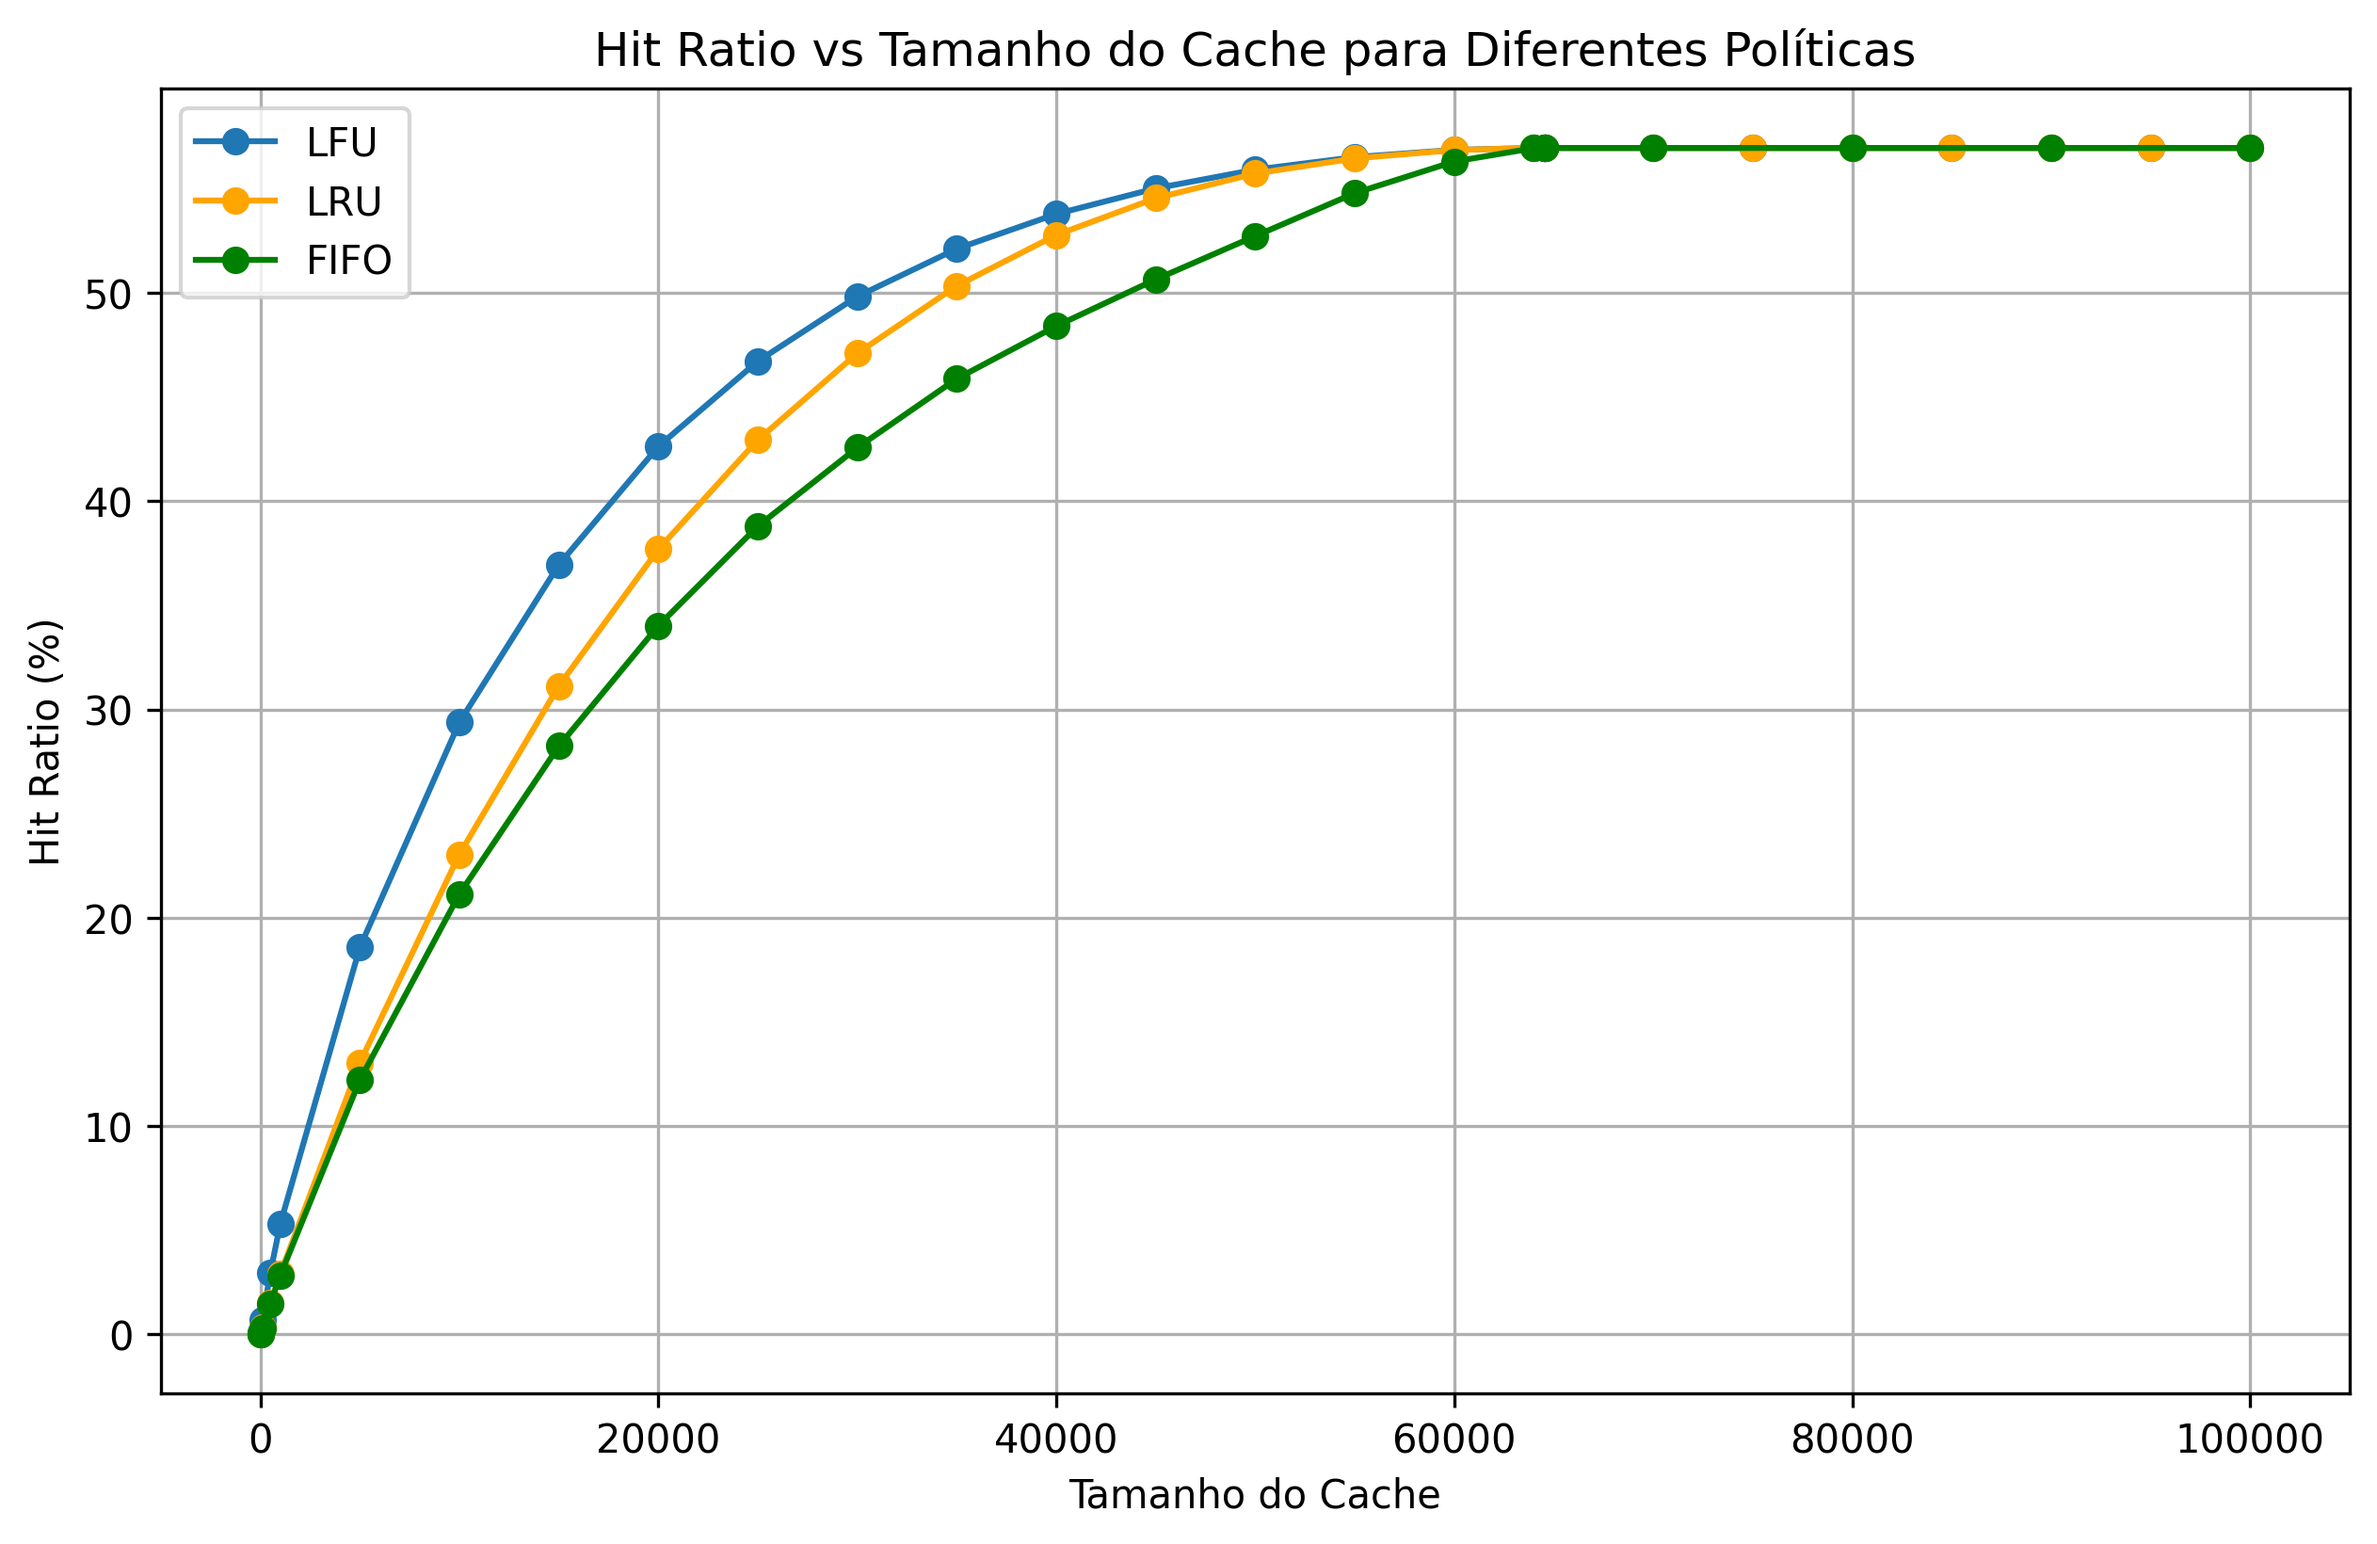
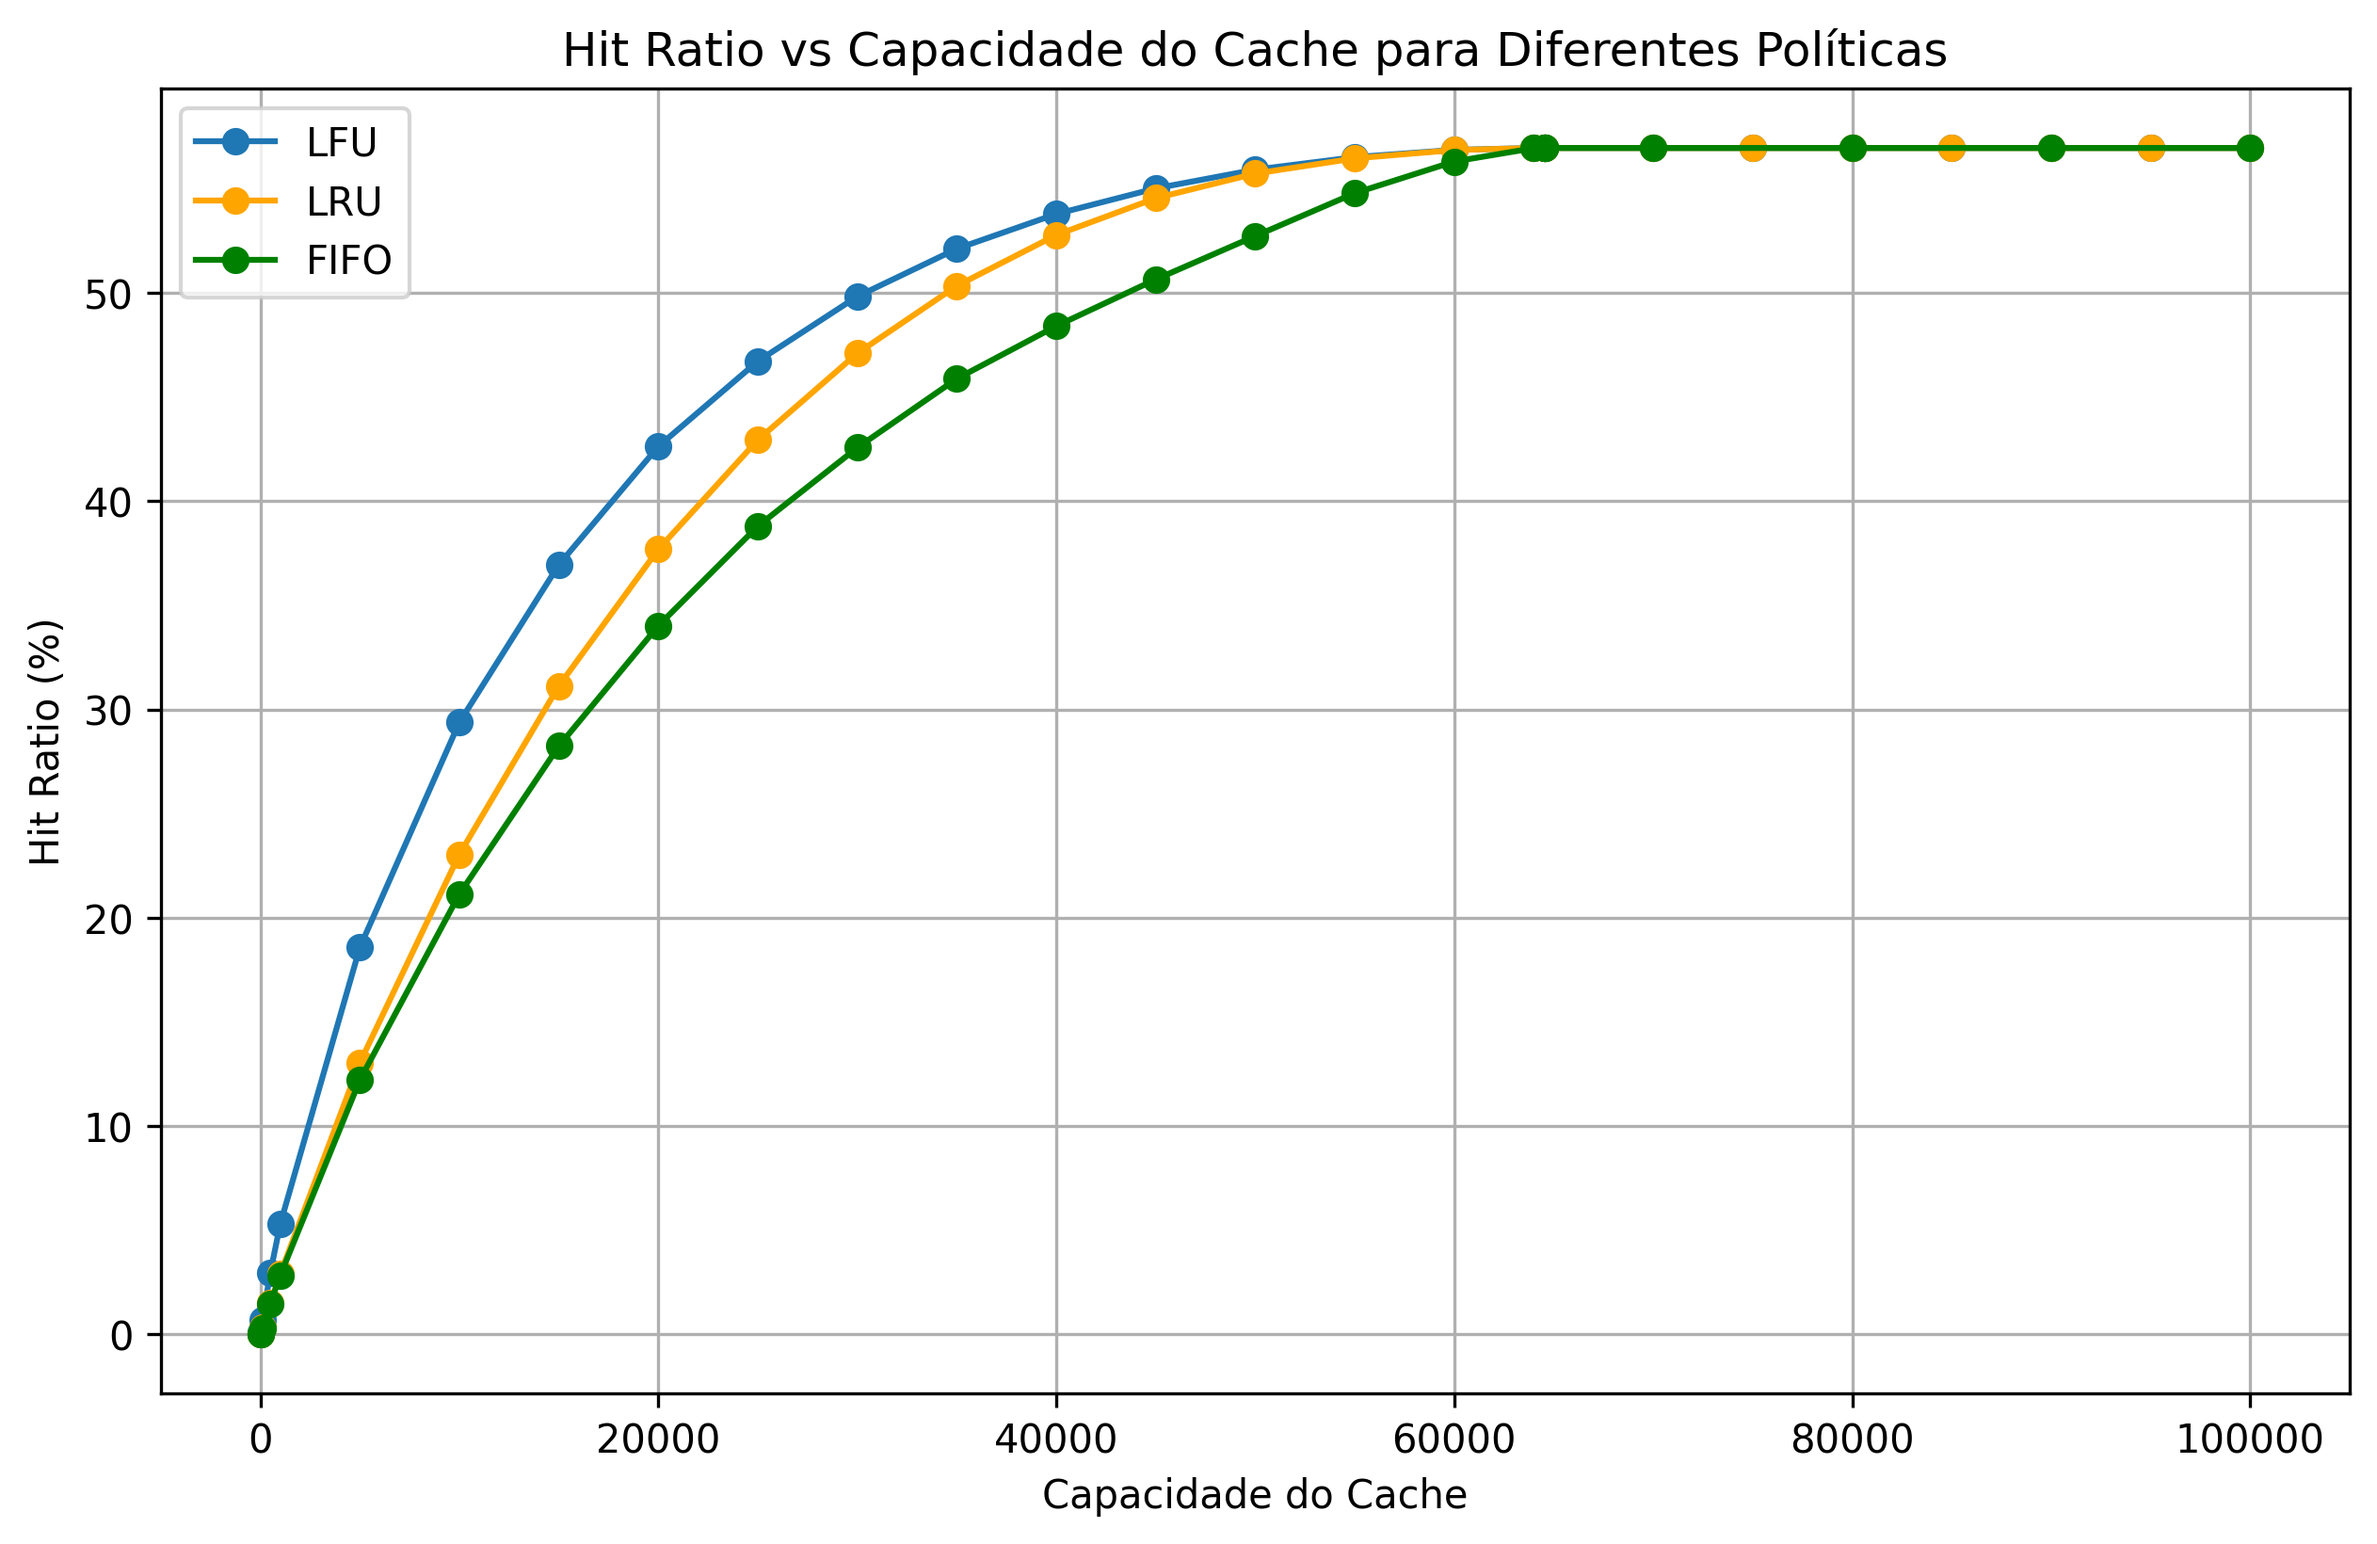
correção dos gráficos e finalização do script de gen_graf

Changed region(s): [[0.2471, 0.0, 0.8032, 0.0622], [0.4325, 0.964, 0.6178, 0.9951]]

diff --git a/analise-de-cache/graphics/scripts/gen_graf.py b/analise-de-cache/graphics/scripts/gen_graf.py
@@ -14,16 +14,53 @@ df_lfu = df[df["Tipo do Cache"] == "LFU"]
 df_lru = df[df["Tipo do Cache"] == "LRU"]
 df_fifo = df[df["Tipo do Cache"] == "FIFO"]
 
+
+# gráfico comparativo de todas as políticas.
 plt.figure(figsize=(10, 6))
 plt.plot(df_lfu['Tamanho do Cache'], df_lfu['HitRatio'], marker='o', label='LFU')
 plt.plot(df_lru['Tamanho do Cache'], df_lru['HitRatio'], marker='o', label='LRU', color='orange')
 plt.plot(df_fifo['Tamanho do Cache'], df_fifo['HitRatio'], marker='o', label='FIFO', color='green')
-plt.title("Hit Ratio vs Tamanho do Cache para Diferentes Políticas")
-plt.xlabel("Tamanho do Cache")
+plt.title("Hit Ratio vs Capacidade do Cache para Diferentes Políticas")
+plt.xlabel("Capacidade do Cache")
 plt.ylabel("Hit Ratio (%)")
 plt.legend()
 plt.grid(True)
-plt.savefig('../images/cache_size_vs_hit_ratio_plot_all.png', dpi=300, bbox_inches='tight')
+plt.savefig('../images/all_cache_comparative_plot.png', dpi=300, bbox_inches='tight')
 plt.show()
 plt.close()
 
+# grafico unitário de LFU
+plt.figure(figsize=(10, 6))
+plt.plot(df_lfu['Tamanho do Cache'], df_lfu['HitRatio'], marker='o', label='LFU')
+plt.title("Hit Ratio vs Capacidade do Cache")
+plt.xlabel("Capacidade do Cache")
+plt.ylabel("Hit Ratio (%)")
+plt.legend()
+plt.grid(True)
+plt.savefig('../images/unit_lfu_plot.png', dpi=300, bbox_inches='tight')
+plt.show()
+plt.close()
+
+# grafico unitário de LRU
+plt.figure(figsize=(10, 6))
+plt.plot(df_lru['Tamanho do Cache'], df_lru['HitRatio'], marker='o', label='LRU', color='orange')
+plt.title("Hit Ratio vs Capacidade do Cache")
+plt.xlabel("Capacidade do Cache")
+plt.ylabel("Hit Ratio (%)")
+plt.legend()
+plt.grid(True)
+plt.savefig('../images/unit_lru_plot.png', dpi=300, bbox_inches='tight')
+plt.show()
+plt.close()
+
+# grafico unitário de FIFO
+plt.figure(figsize=(10, 6))
+plt.plot(df_fifo['Tamanho do Cache'], df_fifo['HitRatio'], marker='o', label='FIFO', color='green')
+plt.title("Hit Ratio vs Capacidade do Cache")
+plt.xlabel("Capacidade do Cache")
+plt.ylabel("Hit Ratio (%)")
+plt.legend()
+plt.grid(True)
+plt.savefig('../images/unit_fifo_plot.png', dpi=300, bbox_inches='tight')
+plt.show()
+plt.close()
